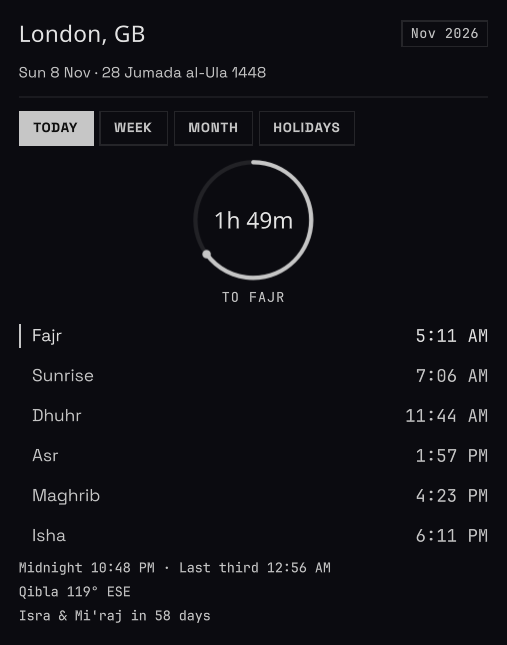
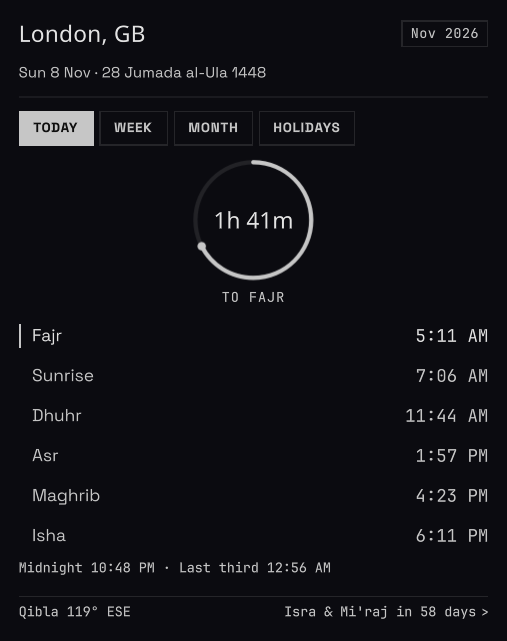
prayer-times 1.3.0: deep polish
- footer zone with divider and two-column meta row
- tappable holiday teaser with chevron and pointer cursor
- week separators in the month table

diff --git a/plugins/prayer-times/content/Panel.qml b/plugins/prayer-times/content/Panel.qml
@@ -313,24 +313,61 @@ Item {
                     maximumLineCount: 1
                 }
 
-                Text {
+                Item {
                     width: parent.width
-                    visible: text.length > 0
-                    text: root.service ? root.service.qiblaText : ""
-                    color: Theme.faint
-                    font.family: Theme.mono
-                    font.pixelSize: 10 * root.s
+                    height: 6 * root.s
                 }
 
-                Text {
+                Rectangle {
                     width: parent.width
-                    visible: text.length > 0
-                    text: root.service ? (root.service.holidayToday || root.service.nextHolidayText) : ""
-                    color: root.holidaySoon ? Theme.gold : Theme.dim
-                    font.family: Theme.mono
-                    font.pixelSize: 10 * root.s
-                    elide: Text.ElideRight
-                    maximumLineCount: 1
+                    height: 1 * root.s
+                    color: Theme.hair
+                }
+
+                Row {
+                    width: parent.width
+                    spacing: 8 * root.s
+
+                    Text {
+                        width: (parent.width - 8 * root.s) / 2
+                        text: root.service ? root.service.qiblaText : ""
+                        color: Theme.faint
+                        font.family: Theme.mono
+                        font.pixelSize: 10 * root.s
+                        elide: Text.ElideRight
+                    }
+
+                    Item {
+                        width: (parent.width - 8 * root.s) / 2
+                        height: holidayText.implicitHeight
+
+                        Text {
+                            id: holidayText
+                            width: parent.width - 9 * root.s
+                            horizontalAlignment: Text.AlignRight
+                            text: root.service ? (root.service.holidayToday || root.service.nextHolidayText) : ""
+                            color: root.holidaySoon ? Theme.gold : Theme.dim
+                            font.family: Theme.mono
+                            font.pixelSize: 10 * root.s
+                            elide: Text.ElideRight
+                        }
+
+                        Text {
+                            anchors.right: parent.right
+                            anchors.verticalCenter: parent.verticalCenter
+                            text: "\u203a"
+                            color: root.holidaySoon ? Theme.gold : Theme.faint
+                            font.pixelSize: 11 * root.s
+                        }
+
+                        HoverHandler {
+                            cursorShape: Qt.PointingHandCursor
+                        }
+
+                        TapHandler {
+                            onTapped: root.tab = "holidays"
+                        }
+                    }
                 }
             }
         }
@@ -512,6 +549,7 @@ Item {
                         delegate: Item {
                             id: monthRow
                             required property var modelData
+                            required property int index
                             width: monthTable.width
                             height: monthTable.rowH
 
@@ -521,6 +559,15 @@ Item {
                                 color: Theme.accent
                                 opacity: 0.20
                                 radius: Theme.radius
+                            }
+
+                            Rectangle {
+                                anchors.left: parent.left
+                                anchors.right: parent.right
+                                height: 1 * root.s
+                                color: Theme.dim
+                                opacity: 0.45
+                                visible: monthRow.index > 0 && monthRow.index % 7 === 0
                             }
 
                             Rectangle {
